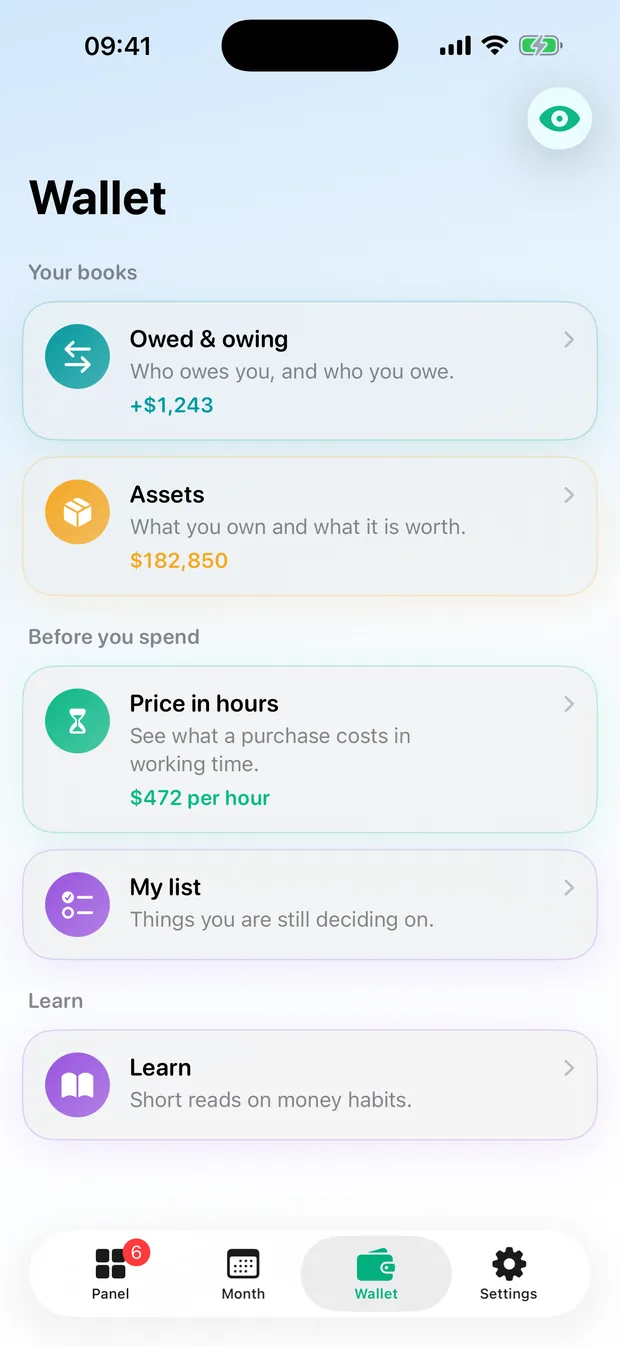
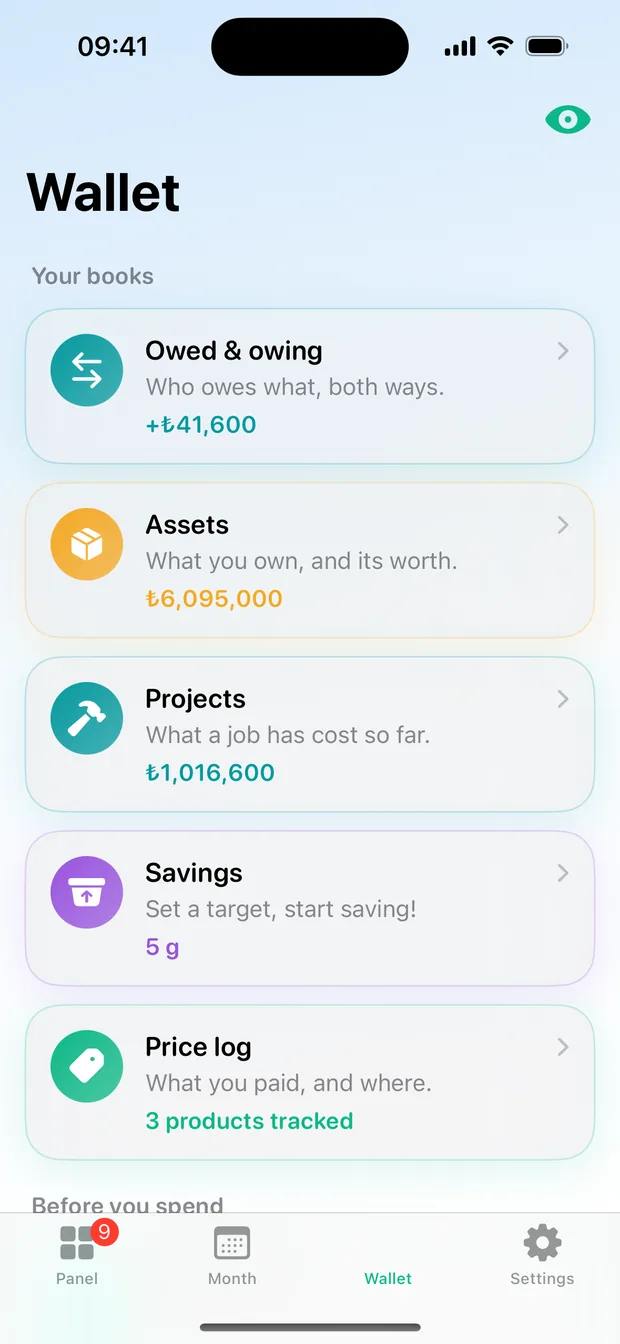
Wallet Coach: Birikim bölümü, güncel takvim ve cüzdan görselleri
Birikim kendi bölümünü aldı - neyle biriktiriyorsan onunla saymak,
kurun katkının kendi satırında durması, bugünkü değerin ayrı ve
onaylanmış olması. İki görsel: liste ve kap detayı.

Takvim bölümüne yıl-ay çarkı maddesi eklendi, görseli de çarkla
yeniden çekildi. Cüzdan görselinde artık Birikim satırı var.

diff --git a/walletcoach/index.html b/walletcoach/index.html
@@ -40,7 +40,7 @@
   --ink:#12201c; --ink2:#4e6560; --ink3:#849994;
   --line:#dde8e5; --accent:#12a37a;
   --panel:#12a37a; --month:#7c5cf0; --cal:#e0912a; --ledger:#0f9c96;
-  --assets:#e0912a; --wallet:#2f7de0; --pro:#c2506b;
+  --assets:#e0912a; --savings:#8b4fd4; --wallet:#2f7de0; --pro:#c2506b;
   --r:20px;
 }
 :root[data-theme="dark"]{
@@ -49,7 +49,7 @@
   --ink:#eaf3f0; --ink2:#9fb3ae; --ink3:#778b86;
   --line:#25322e; --accent:#2ad19d;
   --panel:#2ad19d; --month:#a48bff; --cal:#f2b04e; --ledger:#3cc9c2;
-  --assets:#f2b04e; --wallet:#5ea3ff; --pro:#f0839c;
+  --assets:#f2b04e; --savings:#b98cf5; --wallet:#5ea3ff; --pro:#f0839c;
 }
 *{box-sizing:border-box;margin:0;padding:0}
 html{scroll-behavior:smooth}
@@ -199,6 +199,7 @@ footer a:hover{color:var(--accent)}
       <a href="#takvim"><span class="tr">Takvim</span><span class="en">Calendar</span></a>
       <a href="#defter"><span class="tr">Alacak-verecek</span><span class="en">Ledger</span></a>
       <a href="#varliklar"><span class="tr">Varlıklar</span><span class="en">Assets</span></a>
+      <a href="#birikim"><span class="tr">Birikim</span><span class="en">Savings</span></a>
       <a href="#cuzdan"><span class="tr">Araçlar</span><span class="en">Tools</span></a>
       <a href="#gizlilik"><span class="tr">Gizlilik</span><span class="en">Privacy</span></a>
       <a href="#fiyat"><span class="tr">Fiyat</span><span class="en">Pricing</span></a>
@@ -353,6 +354,8 @@ footer a:hover{color:var(--accent)}
           <li class="en">Overdue lines stand out in both the calendar and the dashboard</li>
           <li class="tr">Hatırlatmalar <strong>ücretsiz</strong> — alışkanlığı kuran şey bu</li>
           <li class="en">Reminders are <strong>free</strong> — they are what builds the habit</li>
+          <li class="tr">Başlığa dokun, <strong>yıl ve ay çarkı</strong> açılır: geçen marta da gelecek yıla da bir hareketle</li>
+          <li class="en">Tap the title for a <strong>year and month wheel</strong>: last March or next year in one flick</li>
         </ul>
       </div>
       <div class="shots">
@@ -421,6 +424,37 @@ footer a:hover{color:var(--accent)}
     </div>
   </section>
 
+  <!-- ── Birikim ── -->
+  <section id="birikim" style="--c:var(--savings)">
+    <div class="row">
+      <div class="txt">
+        <span class="tag"><span class="tr">Birikim</span><span class="en">Savings</span></span>
+        <h2 class="tr">Neyle biriktiriyorsan onunla say</h2>
+        <h2 class="en">Count it in whatever you actually save in</h2>
+        <p class="lede tr">Gram altın, dolar, bir fon ya da düpedüz para. Bir kap tek bir birim
+          tutar, çünkü gramlar grama toplandığında ortaya anlamlı bir sayı çıkar. İki şeyle
+          biriktiriyorsan iki kap açarsın.</p>
+        <p class="lede en">Grams of gold, dollars, a fund, or plain money. A pot holds one unit,
+          because grams add up to grams and that total means something. Saving in two things
+          means two pots.</p>
+        <ul class="feat">
+          <li class="tr"><strong>Kur, katkının kendi satırında durur</strong> — iki gramın alındığı gün ne tuttuğu bir olgudur, bugünkü kurla yeniden fiyatlamak o geçmişi sessizce değiştirirdi</li>
+          <li class="en"><strong>The rate lives on the deposit</strong> — what two grams cost on the day is a fact, and re-pricing that history against today's rate would quietly rewrite it</li>
+          <li class="tr"><strong>Bugünkü değer ayrı bir şey</strong>: senin onayladığın kur, girildiği tarih ekranda yazılı. Uygulamadaki aylık seri yalnızca öneri; iki aydan eskiyse ekran bunu söyler</li>
+          <li class="en"><strong>Today's worth is a separate thing</strong>: the rate you confirmed, with the date you entered it. The bundled monthly series is only a suggestion, and the screen says so when it is months old</li>
+          <li class="tr"><strong>Kuru bilinmeyen katkı bedava sayılmaz</strong> — ortalama maliyet ve kazanç yalnızca kuru olan satırlardan hesaplanır</li>
+          <li class="en"><strong>A deposit with no rate is not counted as free</strong> — the average cost and the gain come only from the rows that recorded one</li>
+          <li class="tr"><strong>Hedef ve aylık hatırlatıcı</strong> isteğe bağlı; hedef paradan değil, kabın kendi biriminden girilir</li>
+          <li class="en"><strong>A target and a monthly nudge</strong>, both optional; the target is in the pot's own unit, not in money</li>
+        </ul>
+      </div>
+      <div class="shots">
+        <img class="shot" data-screen="savings" src="assets/screens/tr/savings.webp" alt="Birikim">
+        <img class="shot" data-screen="savings-detail" src="assets/screens/tr/savings-detail.webp" alt="Birikim detayı">
+      </div>
+    </div>
+  </section>
+
   <!-- ── Cüzdan ── -->
   <section id="cuzdan" style="--c:var(--wallet)">
     <div class="row">
@@ -428,10 +462,12 @@ footer a:hover{color:var(--accent)}
         <span class="tag"><span class="tr">Cüzdan</span><span class="en">Wallet</span></span>
         <h2 class="tr">Harcamadan önce bakılacak yer</h2>
         <h2 class="en">The tab you open before you spend</h2>
-        <p class="lede tr">Defterler üstte, ara sıra açılan hesaplayıcılar altta. Hepsi tek bir
-          soruya bakıyor: bu para gerçekten neye mal oluyor?</p>
-        <p class="lede en">The books at the top, the occasional calculators underneath. All of them
-          ask one question: what does this money actually cost you?</p>
+        <p class="lede tr">Defterler üstte — alacak-verecek, varlıklar, projeler, birikim, fiyat
+          takibi. Ara sıra açılan hesaplayıcılar altta. Hepsi tek bir soruya bakıyor: bu para
+          gerçekten neye mal oluyor?</p>
+        <p class="lede en">The books at the top — what you are owed, what you own, jobs, savings,
+          the price log. The occasional calculators underneath. All of them ask one question:
+          what does this money actually cost you?</p>
         <ul class="feat">
           <li class="tr"><strong>Fiyatı saate çevir</strong> — 8.000 liralık koltuk, senin saat ücretinle kaç saatlik çalışma</li>
           <li class="en"><strong>Price in hours</strong> — an 8,000 sofa, in hours of your own work</li>
